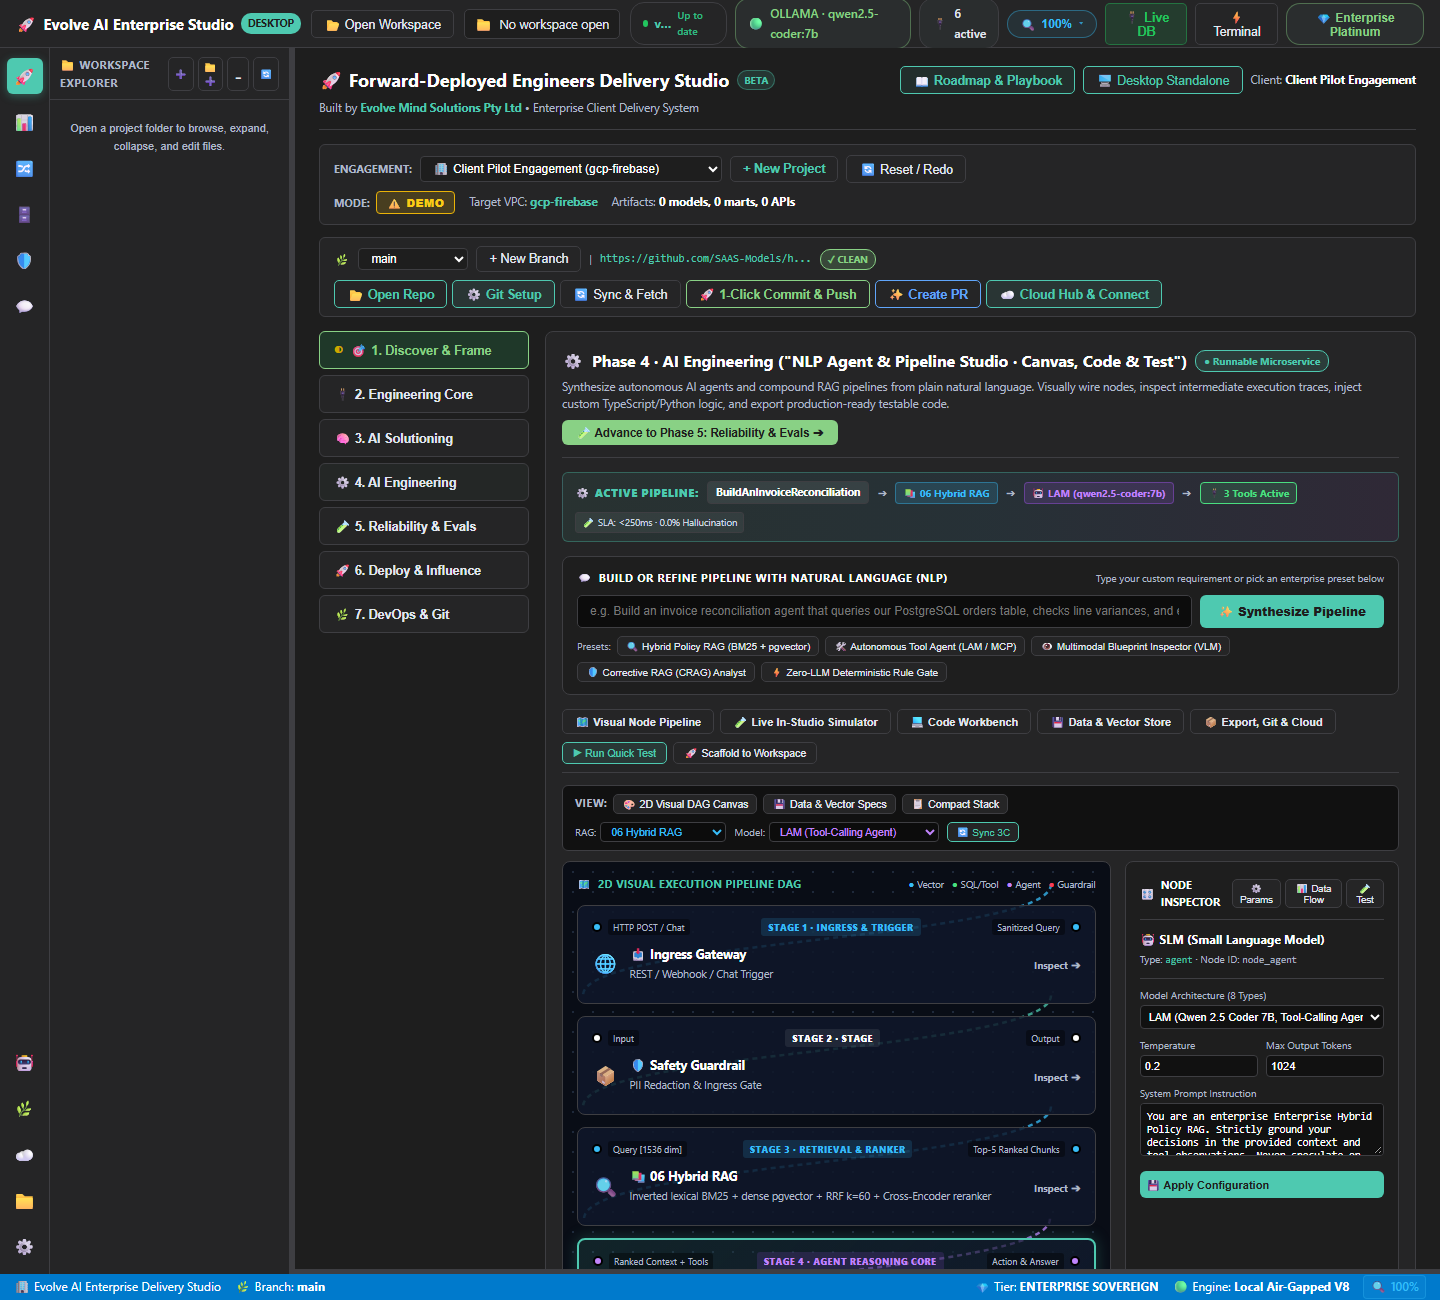
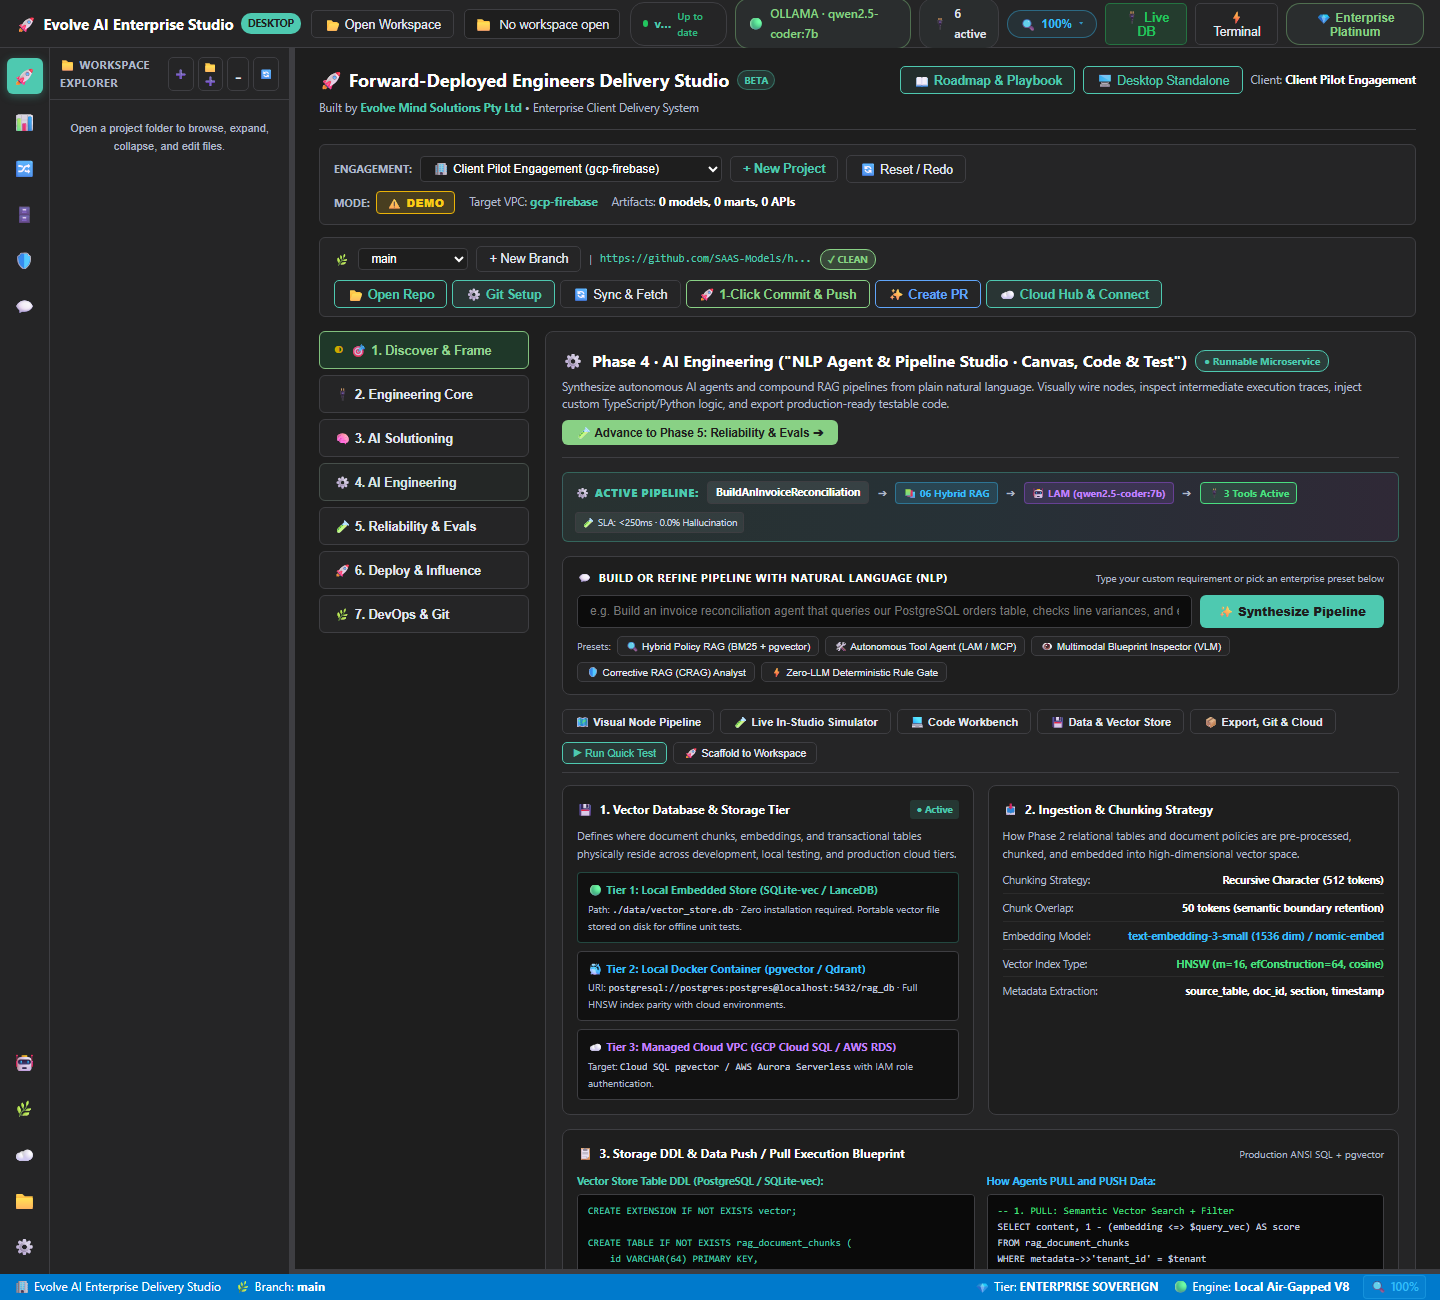
feat(ai-engineering): implement 2D visual DAG canvas, Section 3C bridge, and RAG data architecture

Changed region(s): [[0.375, 0.6154, 0.9688, 0.9846]]

diff --git a/src/desktop/renderer/renderer.ts b/src/desktop/renderer/renderer.ts
@@ -21848,9 +21848,17 @@ describe('Solution Pipeline Contract Verification Suite', () => {
     renderAiEngCanvas();
   }
 
+  let isPhase4Initialized = false;
+  function ensurePhase4Initialized() {
+    if (!isPhase4Initialized) {
+      isPhase4Initialized = true;
+      initPhase4AiEngineering();
+    }
+  }
   // Phase 4 Sync from Phase 3 Contract
   (window as any).syncPhase4AiEngineering = function() {
     try {
+      ensurePhase4Initialized();
       const contract = (window as any).activeSolutionContract;
       const builder = getAgentBuilder();
       const primaryTable = (typeof currentIntrospectedTables !== 'undefined' && currentIntrospectedTables && currentIntrospectedTables.length > 0)
